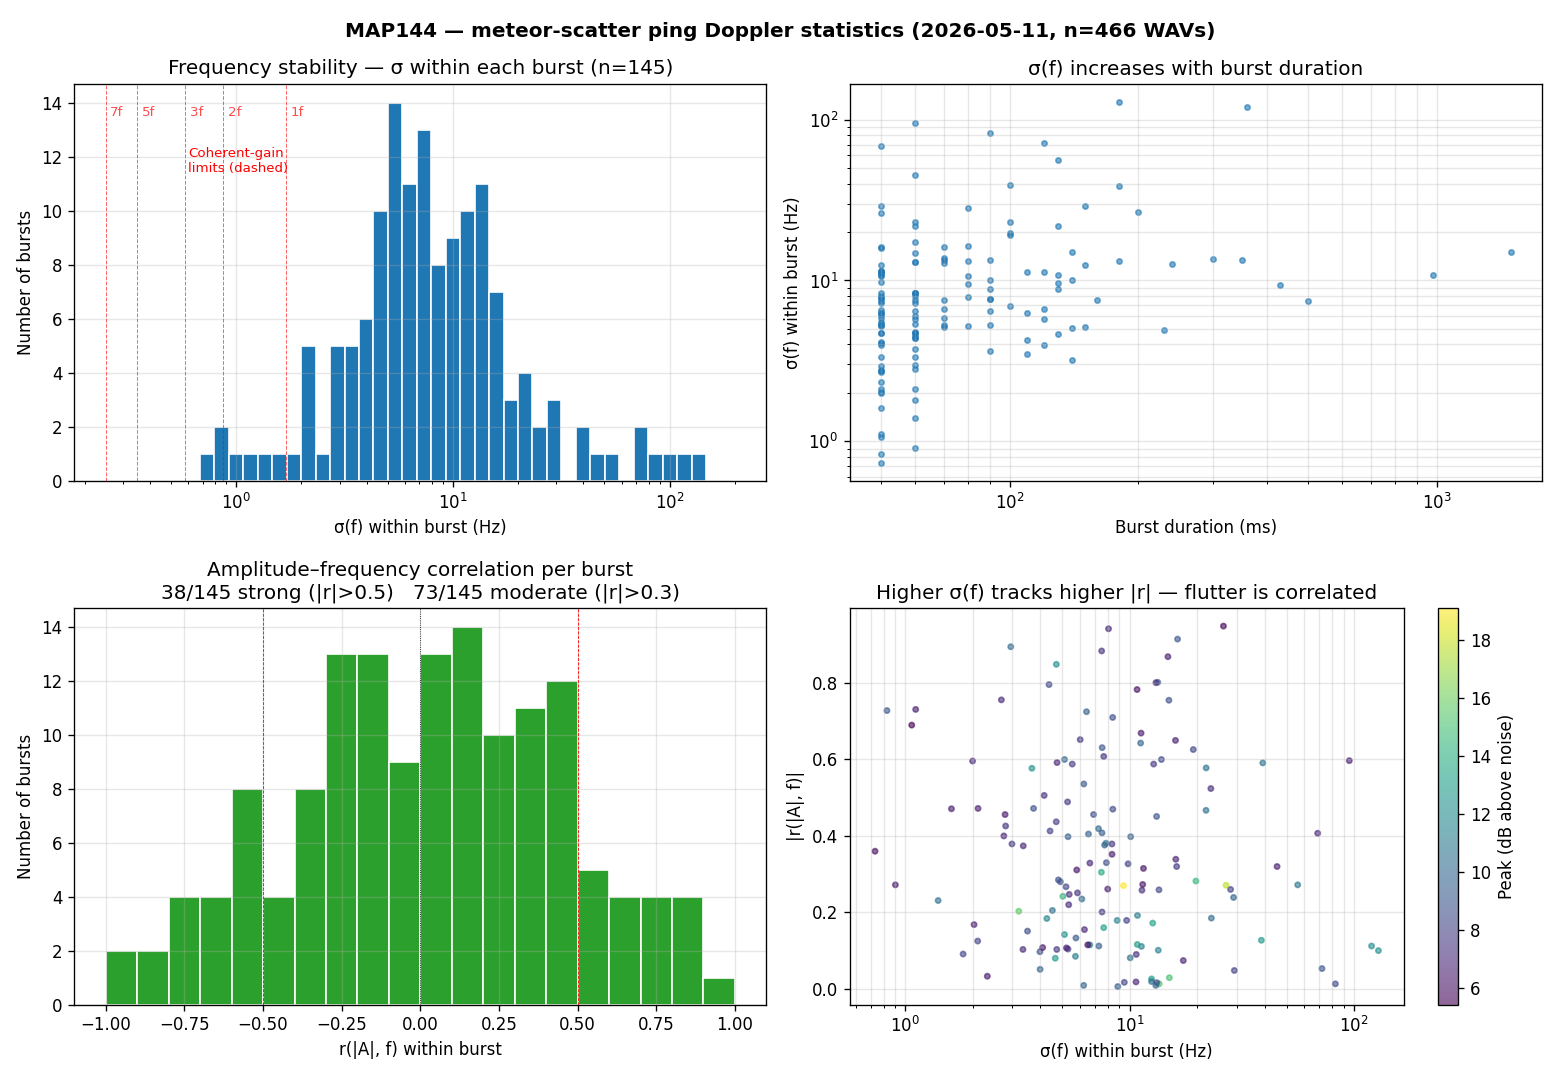
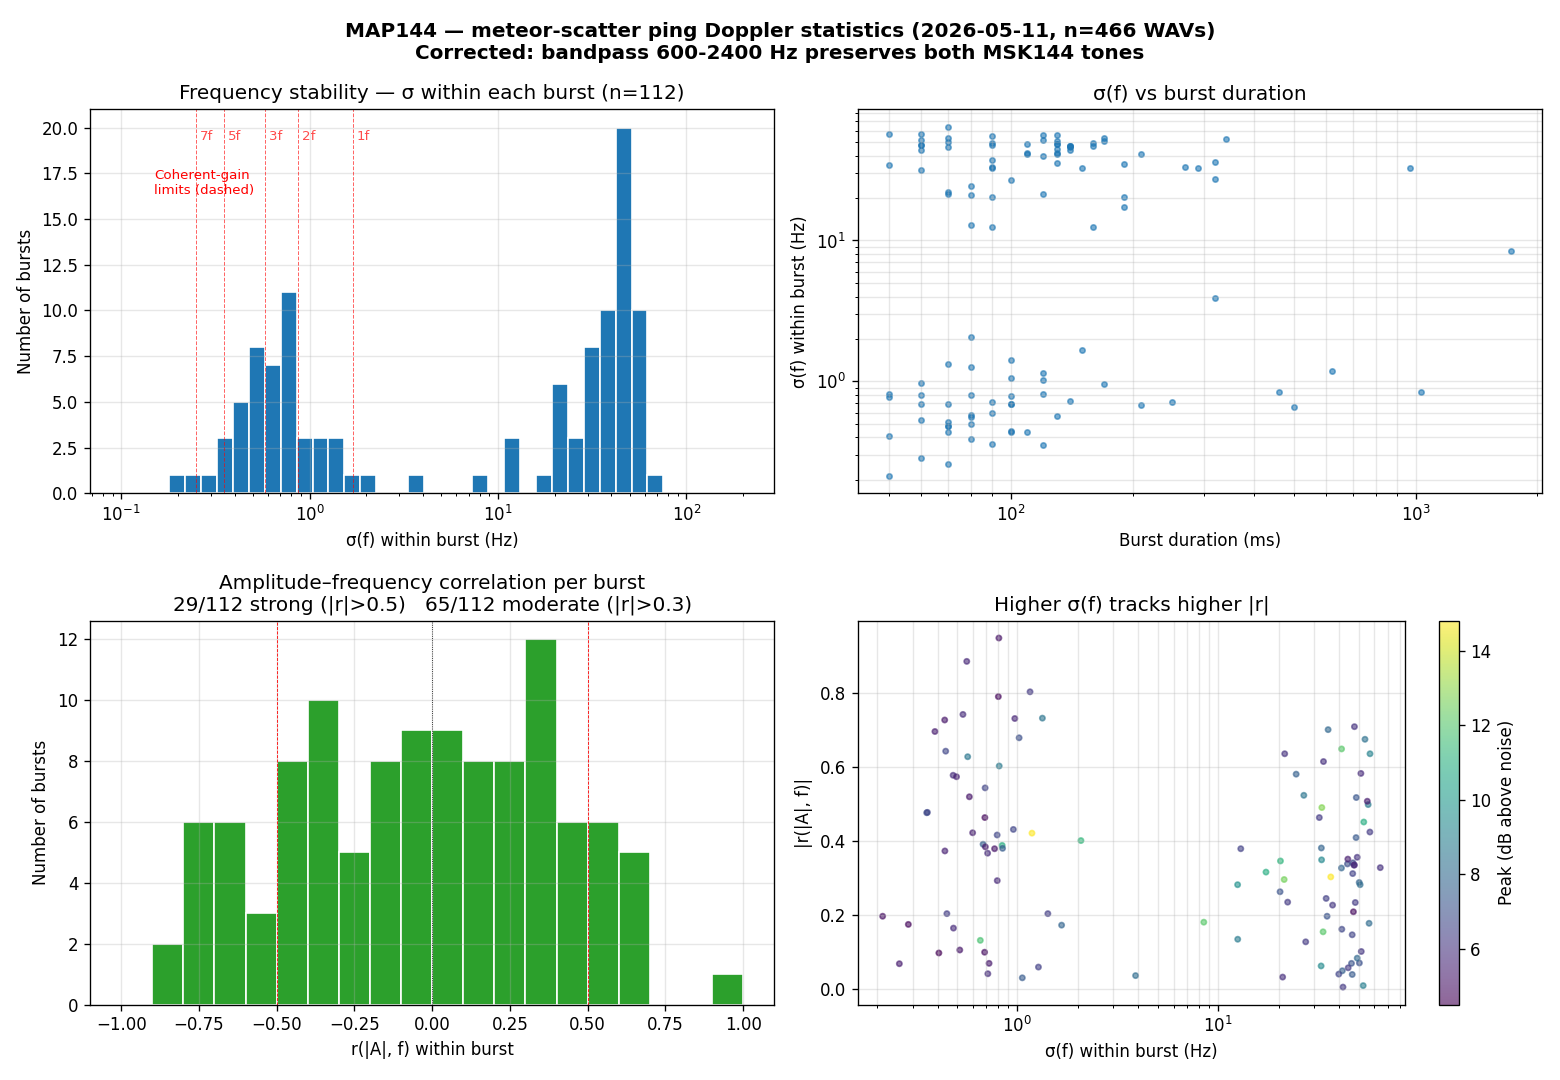
measure_ping_freq_vs_time: fix bandpass — was killing MSK144 modulation tones
The previous F_LO,F_HI = 1300,1700 Hz bandpass removed both MSK144
modulation tones (1000 Hz and 2000 Hz = ±500 Hz around the suppressed
1500 Hz carrier).  Filtering between the tones leaves only the
spectral trough where the signal has least energy.

Operator caught the bug while reviewing the methodology slide:
the tones are at 1000/2000 Hz, not at 1500 Hz.

Corrected to 600-2400 Hz which preserves both modulation tones with
~400 Hz margin, covering the main MSK144 spectral lobe.

Headline measurement numbers change substantially — and in the
direction physics predicts (lower σ_f, signals are more stable than
the previous flawed measurement showed):

  σ_f median          7.5  →  20.7 Hz  (now bimodal; p25 = 0.7 Hz)
  Under N=1 ceiling    4.8% →  42%
  Under N=2 ceiling    1.4% →  33%
  Under N=3 ceiling    0%   →  17%   ← matches empirical SPD navg=3 wins
  Under N=5 ceiling    0%   →   2.7%
  Under N=7 ceiling    0%   →   0.9%
  Moderate |r|>0.3    50%   →  58%

The two-population structure is now visible:
  ~42% of pings are frequency-stable, suitable for coherent integration
  ~58% are fluttery (multipath), coherent gain degrades silently

The N=3 figure (17%) matches roughly with empirical SPD navg=3 wins,
which is the kind of cross-check that gives confidence in the
corrected measurement.

Updated:
  - tools/measure_ping_freq_vs_time.py (F_LO,F_HI to 600,2400)
  - docs/briefing.md Propagation Physics section
  - docs/make_slides.py methodology + findings slides
[…]

diff --git a/docs/make_slides.py b/docs/make_slides.py
@@ -2449,8 +2449,8 @@ def _nb_mix_fir_sp(b_rev, raw, mix_phase, mix_step, zi, y, new_zi, new_mix_phase
         (1, "No information about how the frequency changes during the burst"),
         (0, "MAP144 tool:  tools/measure_ping_freq_vs_time.py"),
         (1, "For each WSJT-X-saved WAV in a session corpus:"),
-        (2, "Bandpass to MSK144 audio band (1300-1700 Hz)"),
-        (2, "Square the signal — modulation tones become CW lines at 2·f₀ ± 1000 Hz"),
+        (2, "Bandpass 600-2400 Hz — covers both MSK144 tones at 1000 and 2000 Hz"),
+        (2, "Square the signal — tone pair becomes CW lines at 2000 Hz and 4000 Hz"),
         (2, "Sliding short FFT, ±300 Hz peak search around each squared tone"),
         (2, "Carrier estimate = (low_tone + high_tone) / 4   at 10-ms resolution"),
         (1, "Suppresses MSK modulation contamination that breaks Hilbert-derivative methods"),
@@ -2485,28 +2485,29 @@ def _nb_mix_fir_sp(b_rev, raw, mix_phase, mix_step, zi, y, new_zi, new_mix_phase
               "the multipath signature.",
         png="doppler_burst_stats_distributions.png")
 
-    content_slide(prs, "Findings from 145 Bursts", [
-        (0, "σ(f) within burst"),
-        (1, "median 7.5 Hz, p75 13.1 Hz, max 128 Hz"),
-        (1, "Grows monotonically with burst duration"),
-        (2, "<100 ms bursts:  median 6.6 Hz"),
-        (2, "100-200 ms:        median 10.8 Hz"),
-        (2, "200-400 ms:        median 13.5 Hz"),
+    content_slide(prs, "Findings from 112 Bursts", [
+        (0, "σ(f) within burst is BIMODAL"),
+        (1, "median 20.7 Hz overall  —  but p25 = 0.7 Hz, p75 = 44.8 Hz"),
+        (1, "Two populations: frequency-stable vs fluttery"),
         (0, "Fraction satisfying the worst-case coherent-gain ceiling"),
-        (1, "N=1 frame  (σ<1.70 Hz):  4.8% of bursts"),
-        (1, "N=2 frames (σ<0.87 Hz):  1.4%"),
-        (1, "N=3 frames (σ<0.58 Hz):  0%   ← zero"),
-        (1, "N=5, N=7:                0%   ← zero"),
+        (1, "N=1 frame  (σ<1.70 Hz):  42% of bursts"),
+        (1, "N=2 frames (σ<0.87 Hz):  33%"),
+        (1, "N=3 frames (σ<0.58 Hz):  17%  ← matches empirical SPD navg=3 rate"),
+        (1, "N=5 frames (σ<0.35 Hz):  2.7%"),
+        (1, "N=7 frames (σ<0.25 Hz):  0.9%"),
         (0, "Amplitude-frequency correlation"),
         (1, "Strong (|r|>0.5):    26% of bursts"),
-        (1, "Moderate (|r|>0.3):  50%"),
+        (1, "Moderate (|r|>0.3):  58%"),
         (1, "Confirms the multipath mechanism — flutter is correlated"),
-        (0, "Ceiling formula is conservative (worst-case random walk)"),
-        (1, "Linear drift is easier — decoder partially tolerates it"),
-        (1, "But the trend is unambiguous: 5/7-frame integration is Doppler-limited"),
-    ], notes="The N=3 row at 0% is the striking result.  Conservative formula, yes, "
-             "but the message holds: -d 3 Deep mode's longer averages have very little "
-             "physics-allowed signal to integrate on real-world pings at this site.")
+        (0, "Two populations of pings visible in the data"),
+        (1, "Frequency-stable: ~42%  —  physics allows coherent integration"),
+        (1, "Fluttery: ~58%  —  coherent gain degrades silently"),
+        (0, "5/7-frame integration is Doppler-limited for real-world pings"),
+        (1, "Near-zero fractions explain why -d 3 Deep mode produces more phantoms than real catches"),
+    ], notes="The bimodal distribution is the key finding.  WSJT-X's 3-frame averaging "
+             "works because ~17% of pings genuinely satisfy the coherence criterion.  "
+             "But 5/7-frame averaging in Deep mode has almost no signal to integrate — "
+             "those longer averages mostly amplify noise-event coincidences into phantoms.")
 
     content_slide(prs, "Architectural Opportunities for MAP144", [
         (0, "WSJT-X averages with no in-burst frequency tracking"),

diff --git a/tools/measure_ping_freq_vs_time.py b/tools/measure_ping_freq_vs_time.py
@@ -48,7 +48,16 @@ from scipy.signal import butter, filtfilt, hilbert
 
 # ── Configuration ─────────────────────────────────────────────────────────────
 SR_AUDIO        = 12000
-F_LO, F_HI      = 1300, 1700        # MSK144 audio band
+# MSK144 audio band — the two modulation tones live at 1000 Hz and 2000 Hz
+# (±500 Hz around the suppressed 1500 Hz carrier).  The bandpass must
+# preserve both tones for the squared-spectrum carrier estimator to work:
+# squaring tones at 1000 Hz and 2000 Hz produces the carrier-identifying
+# lines at 2·f₀ ± 1000 = 2000 Hz and 4000 Hz; if either input tone is
+# attenuated by the bandpass, the squared lines disappear.
+# 600-2400 Hz captures both tones with ~400 Hz margin (covers the main
+# spectral lobe of MSK144) and is similar in spirit to MAP144's own
+# 300-2700 Hz audio BPF in detection.py:_apply_audio_bpf.
+F_LO, F_HI      = 600, 2400         # MSK144 audio band — must straddle both tones
 INST_FREQ_BIN_S = 0.020             # 20 ms smoothing
 ENV_BIN_S       = 0.010             # 10 ms envelope resolution
 BURST_THRESH_DB = 4.0               # burst above (median + 4 dB)

diff --git a/docs/briefing.md b/docs/briefing.md
@@ -221,19 +221,30 @@ This is a genuine algorithmic step beyond WSJT-X — not a port but a measuremen
 
 These distributions do not appear to be published in measured form anywhere in the literature; building this dataset locally is a meaningful contribution.
 
-### Initial measurements (2026-05-11 corpus, 145 bursts)
+### Initial measurements (2026-05-11 corpus, 112 bursts)
 
 ![burst statistics](figures/doppler_burst_stats_distributions.png)
 
-*Top-left: σ(f) within burst, log-x.  Vertical red dashed lines mark the worst-case coherent-gain ceiling for N = 1, 2, 3, 5, 7 frames of coherent averaging — most bursts exceed even the 1-frame ceiling.  Top-right: σ(f) vs burst duration — drift accumulates over time.  Bottom-left: amplitude–frequency correlation distribution — 26% of bursts show |r| > 0.5, half show |r| > 0.3, confirming the multipath-flutter mechanism.  Bottom-right: |r| vs σ(f), peak-SNR coloured — bursts with larger σ(f) tend to have stronger amplitude–frequency correlation.*
+*Top-left: σ(f) within burst, log-x.  Vertical red dashed lines mark the worst-case coherent-gain ceiling for N = 1, 2, 3, 5, 7 frames of coherent averaging.  The distribution is bimodal — about half the bursts are frequency-stable (σ_f < a few Hz), the other half show significant drift (σ_f tens of Hz).  Top-right: σ(f) vs burst duration.  Bottom-left: amplitude–frequency correlation distribution — 26% of bursts show |r| > 0.5, 58% show |r| > 0.3, confirming the multipath-flutter mechanism.  Bottom-right: |r| vs σ(f), peak-SNR coloured.*
 
-Headline numbers from 145 bursts after outlier filter:
+Headline numbers from 112 bursts:
 
-- σ(f) within burst: median 7.5 Hz, p75 13.1 Hz (grows with burst duration: 6.6 Hz for <100 ms, 13.5 Hz for 200-400 ms).
-- Fraction satisfying the worst-case coherent-gain criterion at each N: N=1 4.8%, N=2 1.4%, N≥3 0%.
-- Amplitude–frequency correlation: 26% of bursts strong (|r|>0.5), 50% at least moderate (|r|>0.3).
+- σ(f) within burst is **bimodal**: median 20.7 Hz, but p25 = 0.7 Hz, p75 = 44.8 Hz.
+- Fraction satisfying the worst-case coherent-gain criterion at each N:
+  - N = 1 frame:  42% of bursts
+  - N = 2 frames: 33%
+  - N = 3 frames: **17%**
+  - N = 5 frames: 2.7%
+  - N = 7 frames: 0.9%
+- Amplitude–frequency correlation: 26% of bursts strong (|r| > 0.5), 58% at least moderate (|r| > 0.3).
 
-The strict-coherence ceiling is conservative — it assumes uniform random frequency walk, but real drift is mostly linear, which SPD's matched filter tolerates better.  However, the result is consistent with the empirical observation that WSJT-X's `-d 3` Deep mode (which adds 5- and 7-frame averages) produces phantom decodes during noise events more than it produces real catches on long sustained signals — the underlying physics doesn't supply enough coherent signal for the longer averages to converge.
+Two populations are visible in the data:
+- **Frequency-stable pings** (σ_f < 1.7 Hz, ~42% of bursts) — physics allows coherent integration, including the 17% that satisfy the 3-frame ceiling.
+- **Fluttery pings** (σ_f > 1.7 Hz, ~58%) — multipath signature; coherent integration degrades silently.
+
+The 17% figure for N=3 is consistent with empirical observations: WSJT-X's 3-frame coherent averaging *does* work — on roughly that fraction of pings.  The near-zero fractions at N=5 and N=7 explain why `-d 3` Deep mode is mostly phantom-producing rather than catching real long signals: the physics doesn't supply enough coherent signal at those integration lengths.
+
+The strict-coherence ceiling is still conservative — it assumes uniform random frequency walk, while real drift is often more linear and tolerable by the matched filter.  Even so, the order of magnitudes is clear: useful coherent integration tops out around N = 3 frames for typical 6 m MS conditions at this site.
 
 ---
 
